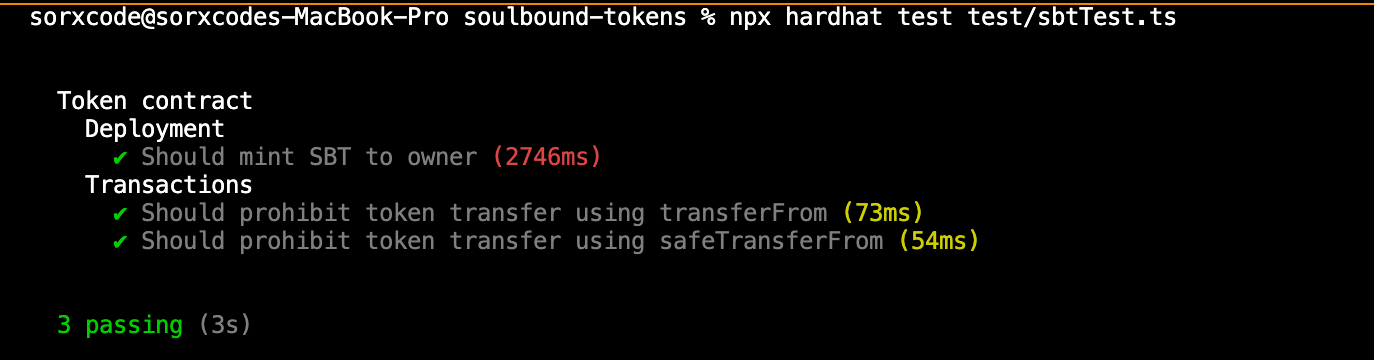
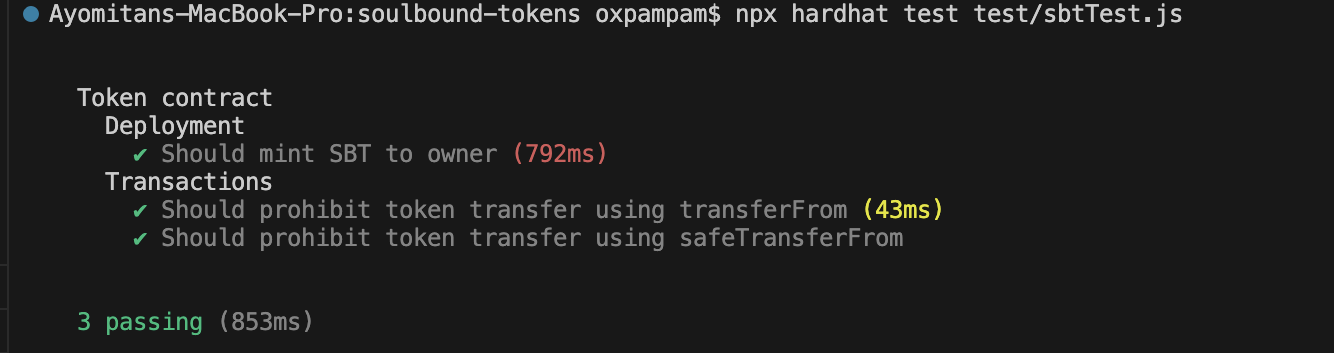
updated

diff --git a/docs/getting-started/hardhat/hardhat.md b/docs/getting-started/hardhat/hardhat.md
@@ -24,7 +24,7 @@ To follow this tutorial, the following are the prerequisites:
 
 * Code editor: a source-code editor such [VS-Code](https://code.visualstudio.com/download).
 * [Metamask](https://docs.klaytn.foundation/dapp/tutorials/connecting-metamask#install-metamask): used to deploy the contracts, sign transactions and interact with the contracts.
-* RPC Endpoint: you can get this from one of the supported [Endpoint Providers](https://docs.klaytn.foundation/content/dapp/json-rpc/public-en).
+* RPC Endpoint: you can get this from one of the supported [Endpoint Providers](https://docs.klaytn.foundation/content/dapp/rpc-service/public-en).
 * Test KLAY from [Faucet](https://baobab.wallet.klaytn.foundation/faucet): fund your account with sufficient KLAY.
 * [NodeJS and NPM](https://nodejs.org/en/)
 
@@ -58,11 +58,10 @@ npm install --save-dev hardhat
 * Paste the code below to install other dependencies
 
 ```bash
-npm install dotenv @nomicfoundation/hardhat-toolbox @klaytn/contracts
+npm install dotenv @klaytn/contracts
 ```
 
-> Note: This installs other dependencies needed for this project ranging from `hardhat`, `hardhat-toolbox`,  `klaytn/contract`, `dotenv` et al. 
-
+> Note: This installs other dependencies needed for this project ranging from `hardhat`, `klaytn/contract`, `dotenv` et al. 
 
 **Step 4**: Initialise a hardhat project:
 
@@ -75,6 +74,10 @@ For this guide, you'll be selecting a typescript project as seen below:
 
 ![](./../images/hardhat/hardhat-init.png) 
 
+![](./../images/hardhat/hardhat-init-ii.png)
+
+> Note: While initializing the project, you will get a prompt to install `hardhat-toolbox` plugin. The plugin bundles all the commonly used packages and Hardhat plugins recommended to start developing with Hardhat.
+
 After initializing a hardhat project, your current directory should include:
 
 **contracts/** – this folder contains smart contract code.
@@ -83,7 +86,7 @@ After initializing a hardhat project, your current directory should include:
 
 **test/** – this folder contains all unit tests that test your smart contract.
 
-**hardhat.config.ts** – this file contains configurations important for the work of Hardhat and the deployment of the soul-bound token.
+**hardhat.config.js** – this file contains configurations important for the work of Hardhat and the deployment of the soul-bound token.
 
 **Step 5**: Create a .env file
 
@@ -102,9 +105,12 @@ touch .env
  PRIVATE_KEY= "your private key copied from MetaMask wallet"
 ```
 
+> Note: You can also choose to use the [configuration variable](https://hardhat.org/hardhat-runner/docs/guides/configuration-variables) functionality provided by hardhat to configure variables that shouldn't be included in the code repository.
+
+
 **Step 6**: Setup Hardhat Configs
 
-Modify your `hardhat.config.ts` with the following configurations:
+Modify your `hardhat.config.js` with the following configurations:
 
 ```js
 require("@nomicfoundation/hardhat-toolbox");
@@ -122,7 +128,6 @@ module.exports = {
     }
   }
 };
-
 ```
 
 Now that we have our development environment all set, let's get into writing our soul-bound token  smart contract.
@@ -181,9 +186,9 @@ One major thing in this contract is that it prohibits token transfer, which make
 
 In this section, we would be testing some of our contract functionalities.
 
-**Step 1**: In the Explorer pane, select the test folder and click the New File button to create a new file named `sbtTest.ts`
+**Step 1**: In the Explorer pane, select the test folder and click the New File button to create a new file named `sbtTest.js`
 
-**Step 2**: Copy the code below in the `sbtTest.ts` file.
+**Step 2**: Copy the code below in the `sbtTest.js` file.
 
 ```js
 // This is an example test file. Hardhat will run every *.ts file in `test/`,
@@ -212,15 +217,15 @@ describe("Token contract", function () {
   // Network to that snapshot in every test.
   async function deployTokenFixture() {
     // Get the ContractFactory and Signers here.
-    const sbt = await ethers.getContractFactory("SoulBoundToken");
     const [owner, addr1, addr2] = await ethers.getSigners();
 
-    // To deploy our contract, we just have to call Token.deploy() and await
-    // its deployed() method, which happens onces its transaction has been
+    // To deploy our contract, we just have to call ethers.deployContract() and call the 
+    // waitForDeployment() method, which happens onces its transaction has been
     // mined.
-    const sbtContract = await sbt.deploy();
 
-    await sbtContract.deployed();
+    const sbtContract = await ethers.deployContract("SoulBoundToken");
+
+    await sbtContract.waitForDeployment();
 
     // Fixtures can return anything you consider useful for your tests
     return { sbtContract, owner, addr1, addr2 };
@@ -295,25 +300,26 @@ For more in-depth guide on testing, please check [Hardhat testing](https://hardh
 
 Scripts are JavaScript/Typescript files that help you deploy contracts to the blockchain network. In this section, you will create a script for the smart contract.
 
-**Step 1**: In the Explorer pane, select the “scripts” folder and click the New File button to create a new file named `sbtDeploy.ts`.
+**Step 1**: In the Explorer pane, select the "scripts" folder and click the New File button to create a new file named `sbtDeploy.js`.
 
 **Step 2**: Copy and paste the following code inside the file.
 
 > Note: input your MetaMask wallet address in the `deployerAddr` variable.
 
 ```js
-import { ethers } from "hardhat";
+const { ethers } = require("hardhat");
 
 async function main() {
 
-    const deployerAddr = "Your Metamask wallet address";
-    const deployer = await ethers.getSigner(deployerAddr);
+  const deployerAddr = "Your Metamask wallet address";
+  const deployer = await ethers.getSigner(deployerAddr);
 
-    console.log(`Deploying contracts with the account: ${deployer.address}`);
-    console.log(`Account balance: ${(await deployer.getBalance()).toString()}`);
+  console.log(`Deploying contracts with the account: ${deployer.address}`);
+  console.log(`Account balance: ${(await deployer.provider.getBalance(deployerAddr)).toString()}`);
 
-  const sbt = await ethers.getContractFactory("SoulBoundToken");
-  const sbtContract = await sbt.deploy();
+
+  const sbtContract = await ethers.deployContract("SoulBoundToken");
+  await sbtContract.waitForDeployment();
 
 
   await sbtContract.deployed();
@@ -333,7 +339,7 @@ main().catch((error) => {
 **Step 3**: In the terminal, run the following command which tells Hardhat to deploy your SBT token on the Klaytn Test Network (Baobab) 
 
 ```bash
-npx hardhat run scripts/sbtDeploy.ts --network baobab
+npx hardhat run scripts/sbtDeploy.js --network baobab
 ```
 
 ![](../images/hardhat/sbtDeploy.png)
